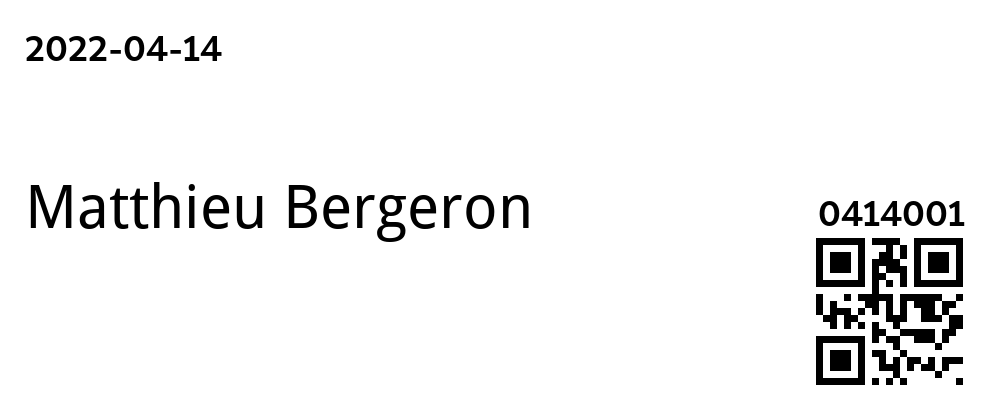
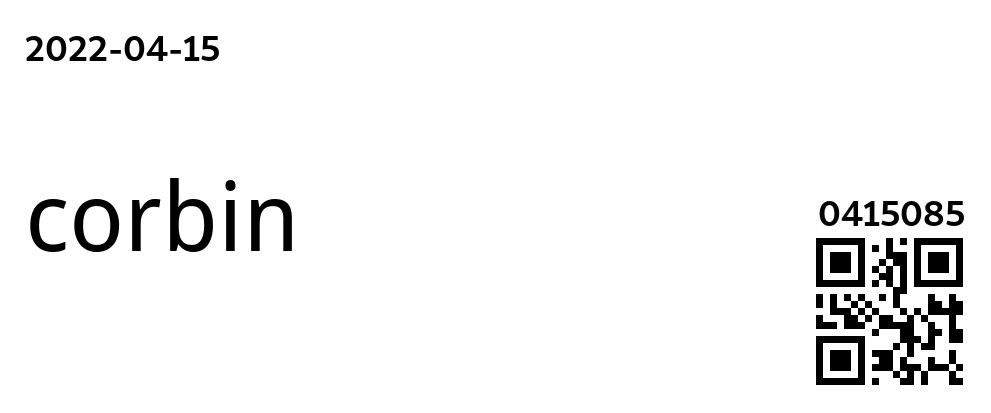
IOT connect ver1.0

diff --git a/refrigerator_label_pi/server.py b/refrigerator_label_pi/server.py
@@ -1,10 +1,21 @@
-from PIL import Image,ImageDraw,ImageFont
+import os
+import time
+import curses
+import requests
+from dotenv import load_dotenv
+from PIL import Image
+from datetime import datetime, timezone, timedelta
 from brother_ql.conversion import convert
 from brother_ql.backends.helpers import send
 from brother_ql.raster import BrotherQLRaster
 from pngMaker import pngMake
-import time
-import curses
+
+# load env 
+load_dotenv()
+
+# time setting
+tz = timezone(timedelta(hours=+8))
+dt = datetime.now(tz)
 
 # curses wait(code wait)
 screen = curses.initscr()
@@ -12,29 +23,41 @@ screen = curses.initscr()
 def stop(curse):
     curses.curs_set(0)
     print("Wait a moment...")
-    time.sleep(2)
+    time.sleep(5)
     curses.flushinp()
-
+    
 while True:
     # curses wait(code wait)
     curses.wrapper(stop)
     curses.curs_set(1)
-    print("code start!")
     input_data = input("input data:")
-    curses.wrapper(stop)
-    
-    
-    if input_data[0:2] == '###': # delete
+
+    if input_data[:6] == 'label:': # delete
+        print("delete label start!")
         path = 'output.txt'
         f = open(path, 'w')
-        f.write(input_data.replace('###','')+'已刪除')
-        f.close()
+        f.write(input_data.replace('label:','')+'已刪除')
+        # http delete    
+        response = requests.delete(
+            "{}{}".format(os.getenv("SERVER_URL"), "/api/delete_fridge_label"),
+            headers = {'content-type': 'application/json'},
+            data = {'date_id':input_data.replace('label:','')}
+        )
     else: # add
+        print("print label start!")
+        # now date
+        date_now = dt.strftime("%Y-%m-%d %H:%M:%S")
+        # http post    
+        response = requests.post(
+            "{}{}".format(os.getenv("SERVER_URL"), "/api/create_fridge_labels"),
+            headers = {'content-type': 'application/json'}, 
+            data = {'date':date_now,'card_id':input_data}
+        )
 
-        # label print
-        if(input_data == "1255870309"): # is member
+        if(response.status_code==201): # is member
             # make png
-            pngMake(member_name="Matthieu Bergeron", data_id="###042100")
+            response_json = response.json()
+            pngMake(member_name=response_json['name'], data_id=response_json['data_id'], date=date_now.split(' ')[0])
 
             
             # QL print
@@ -61,6 +84,6 @@ while True:
             )
 
             send(instructions=instructions, printer_identifier=printer, backend_identifier=backend, blocking=True)
-            print("print successful")
+            print("print label successful")
         else: # not member
             print("error:not member!")

diff --git a/refrigerator_label_pi/pngMaker.py b/refrigerator_label_pi/pngMaker.py
@@ -1,12 +1,8 @@
 from PIL import Image,ImageDraw,ImageFont
-from datetime import datetime, timezone, timedelta
 import qrcode
 
-# time setting
-tz = timezone(timedelta(hours=+8))
-dt = datetime.now(tz)
 
-def pngMake(member_name, data_id):
+def pngMake(member_name, data_id, date):
 
     label_weight, label_hight = (991,413)
     img=Image.new("RGB", (label_weight, label_hight),(255,255,255))
@@ -21,18 +17,21 @@ def pngMake(member_name, data_id):
 
     draw = ImageDraw.Draw(img)
     # date
-    draw.text((25, 25), dt.strftime("%Y-%m-%d"), (0,0,0), font=font)
+    draw.text((25, 25), date, (0,0,0), font=font)
     # name
-    name_weight, name_hight = draw.textsize(member_name, font=font_name)
+    name_hight = draw.textsize(member_name, font=font_name)[1] # just hight
     draw.text((25,(label_hight-name_hight)/2), member_name, (0,0,0), font=font_name)
     # qr
-    qr = qrcode.QRCode(box_size=7)
-    qr.add_data(dt.strftime("###{data}".format(data = data_id)))
+    qr = qrcode.QRCode(
+        error_correction=qrcode.constants.ERROR_CORRECT_M,
+        box_size=7
+    )
+    qr.add_data("label:{data_id}".format(data_id = data_id))
     qr.make()
     img_qr = qr.make_image()
     pos = (label_weight-img_qr.size[0], label_hight-img_qr.size[1])
     img.paste(img_qr, pos)
     # ID
-    draw.text(((label_weight-img_qr.size[0])+30,  (label_hight-img_qr.size[1])-20), dt.strftime("%m%d001"), (0,0,0), font=font)
+    draw.text(((label_weight-img_qr.size[0])+30,  (label_hight-img_qr.size[1])-20), data_id, (0,0,0), font=font)
 
     img.save("label.png")

diff --git a/refrigerator_label_pi/printer.py b/refrigerator_label_pi/printer.py
@@ -23,11 +23,14 @@ draw = ImageDraw.Draw(img)
 # date
 draw.text((25, 25), dt.strftime("%Y-%m-%d"), (0,0,0), font=font)
 # name
-name_weight, name_hight = draw.textsize(member_name, font=font_name)
+name_hight = draw.textsize(member_name, font=font_name)[1]
 draw.text((25,(label_hight-name_hight)/2), member_name, (0,0,0), font=font_name)
 # qr
-qr = qrcode.QRCode(box_size=7)
-qr.add_data(dt.strftime("###{data}".format(data = '042100')))
+qr = qrcode.QRCode(
+        error_correction=qrcode.constants.ERROR_CORRECT_M,
+        box_size=7
+    )
+qr.add_data(dt.strftime("label:{data}".format(data = '042100')))
 
 qr.make()
 img_qr = qr.make_image()
